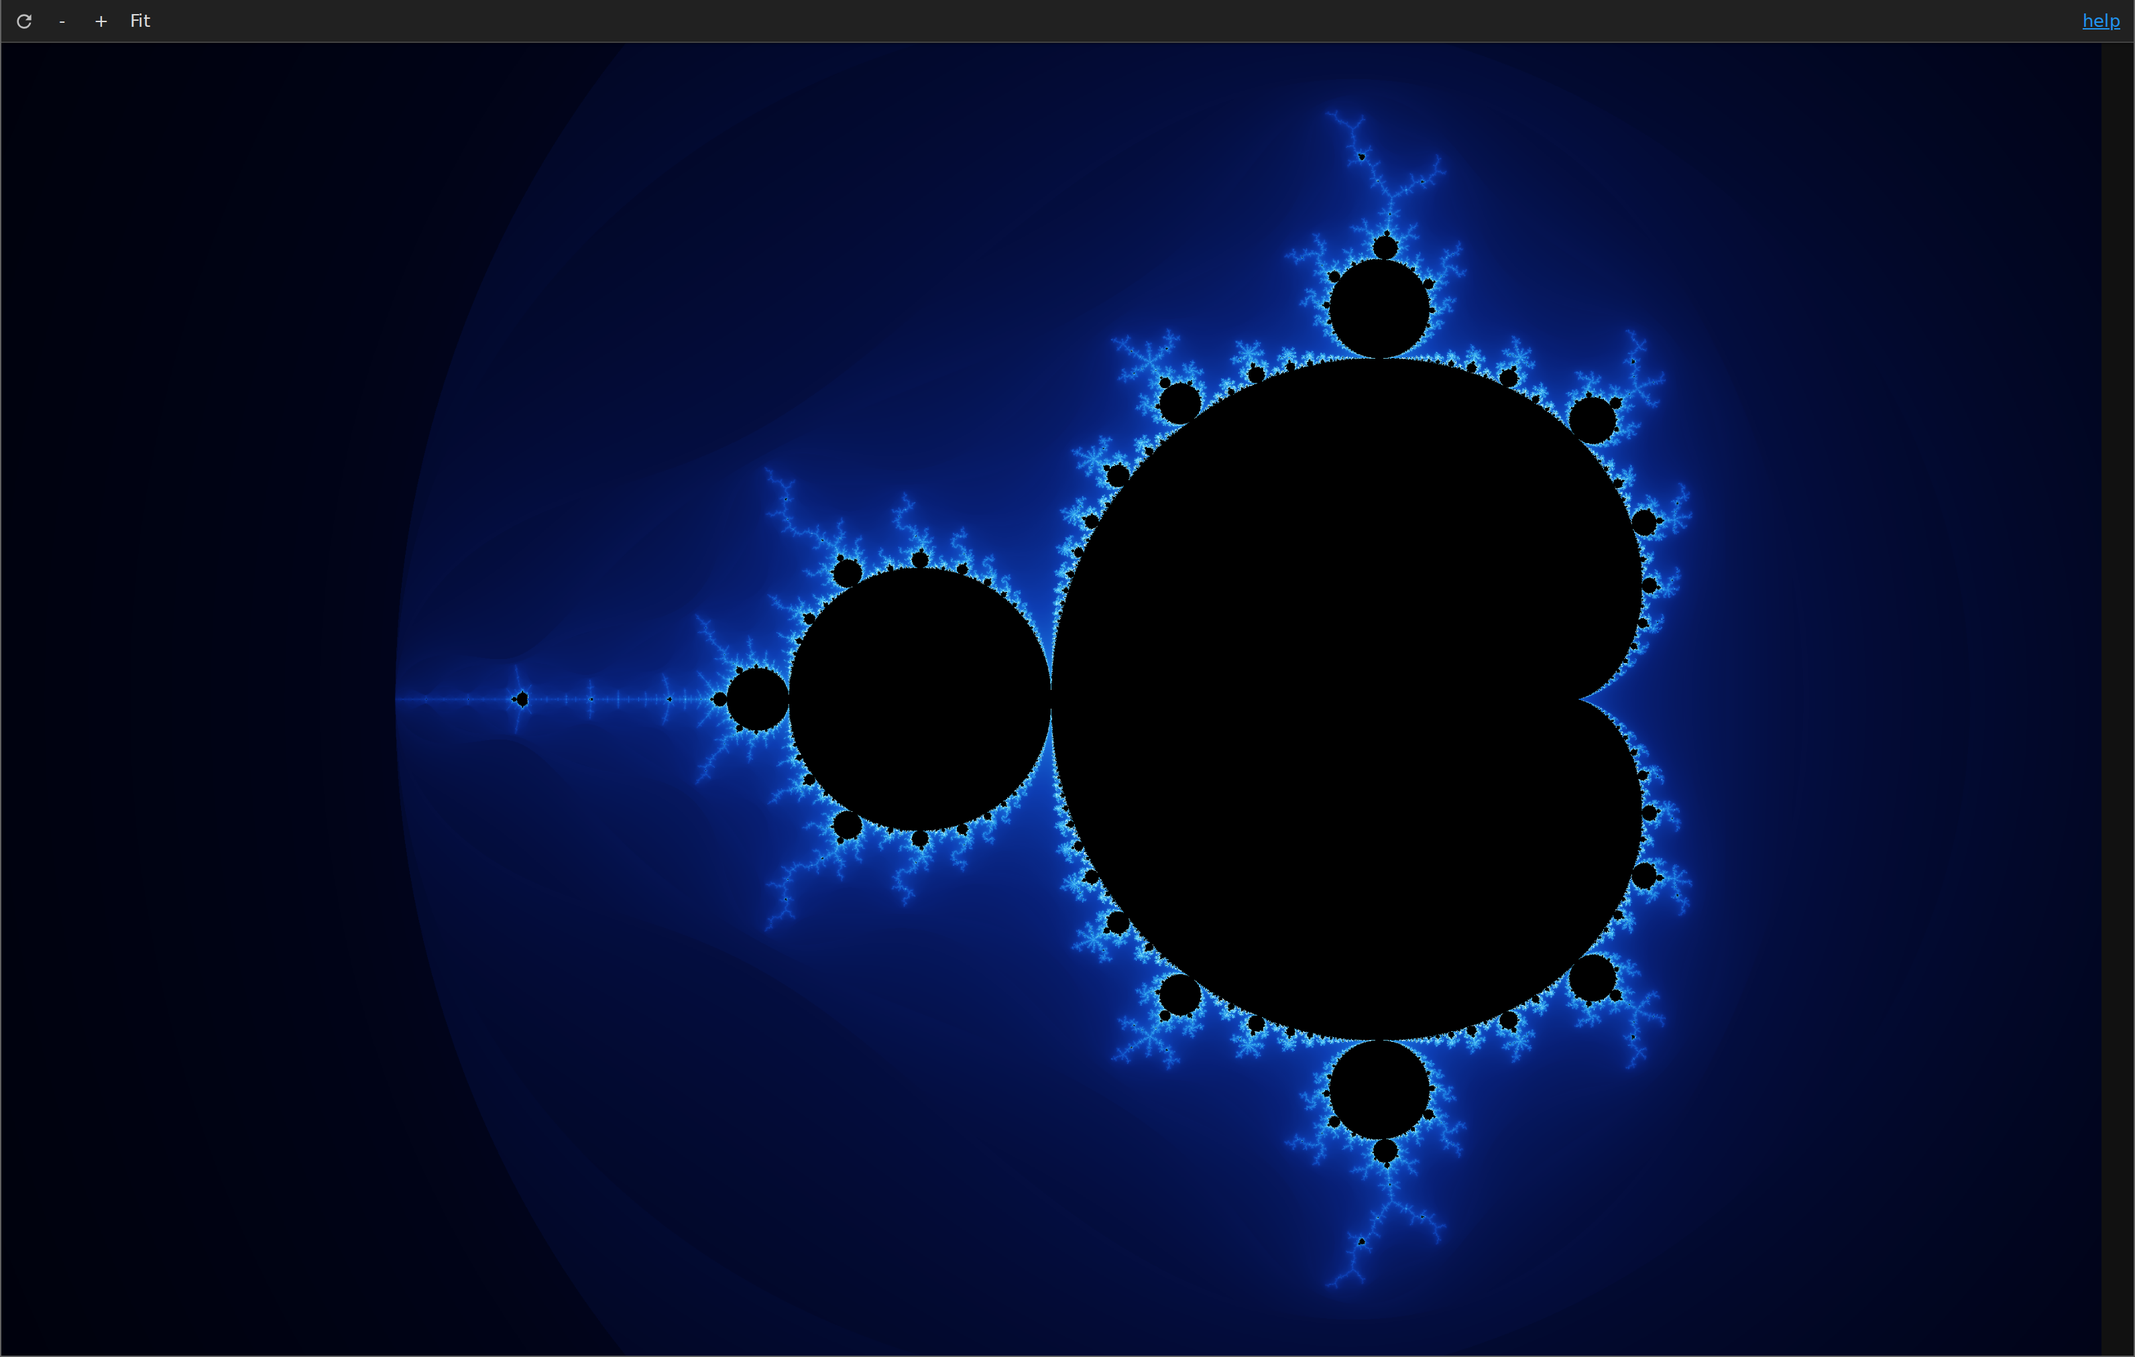
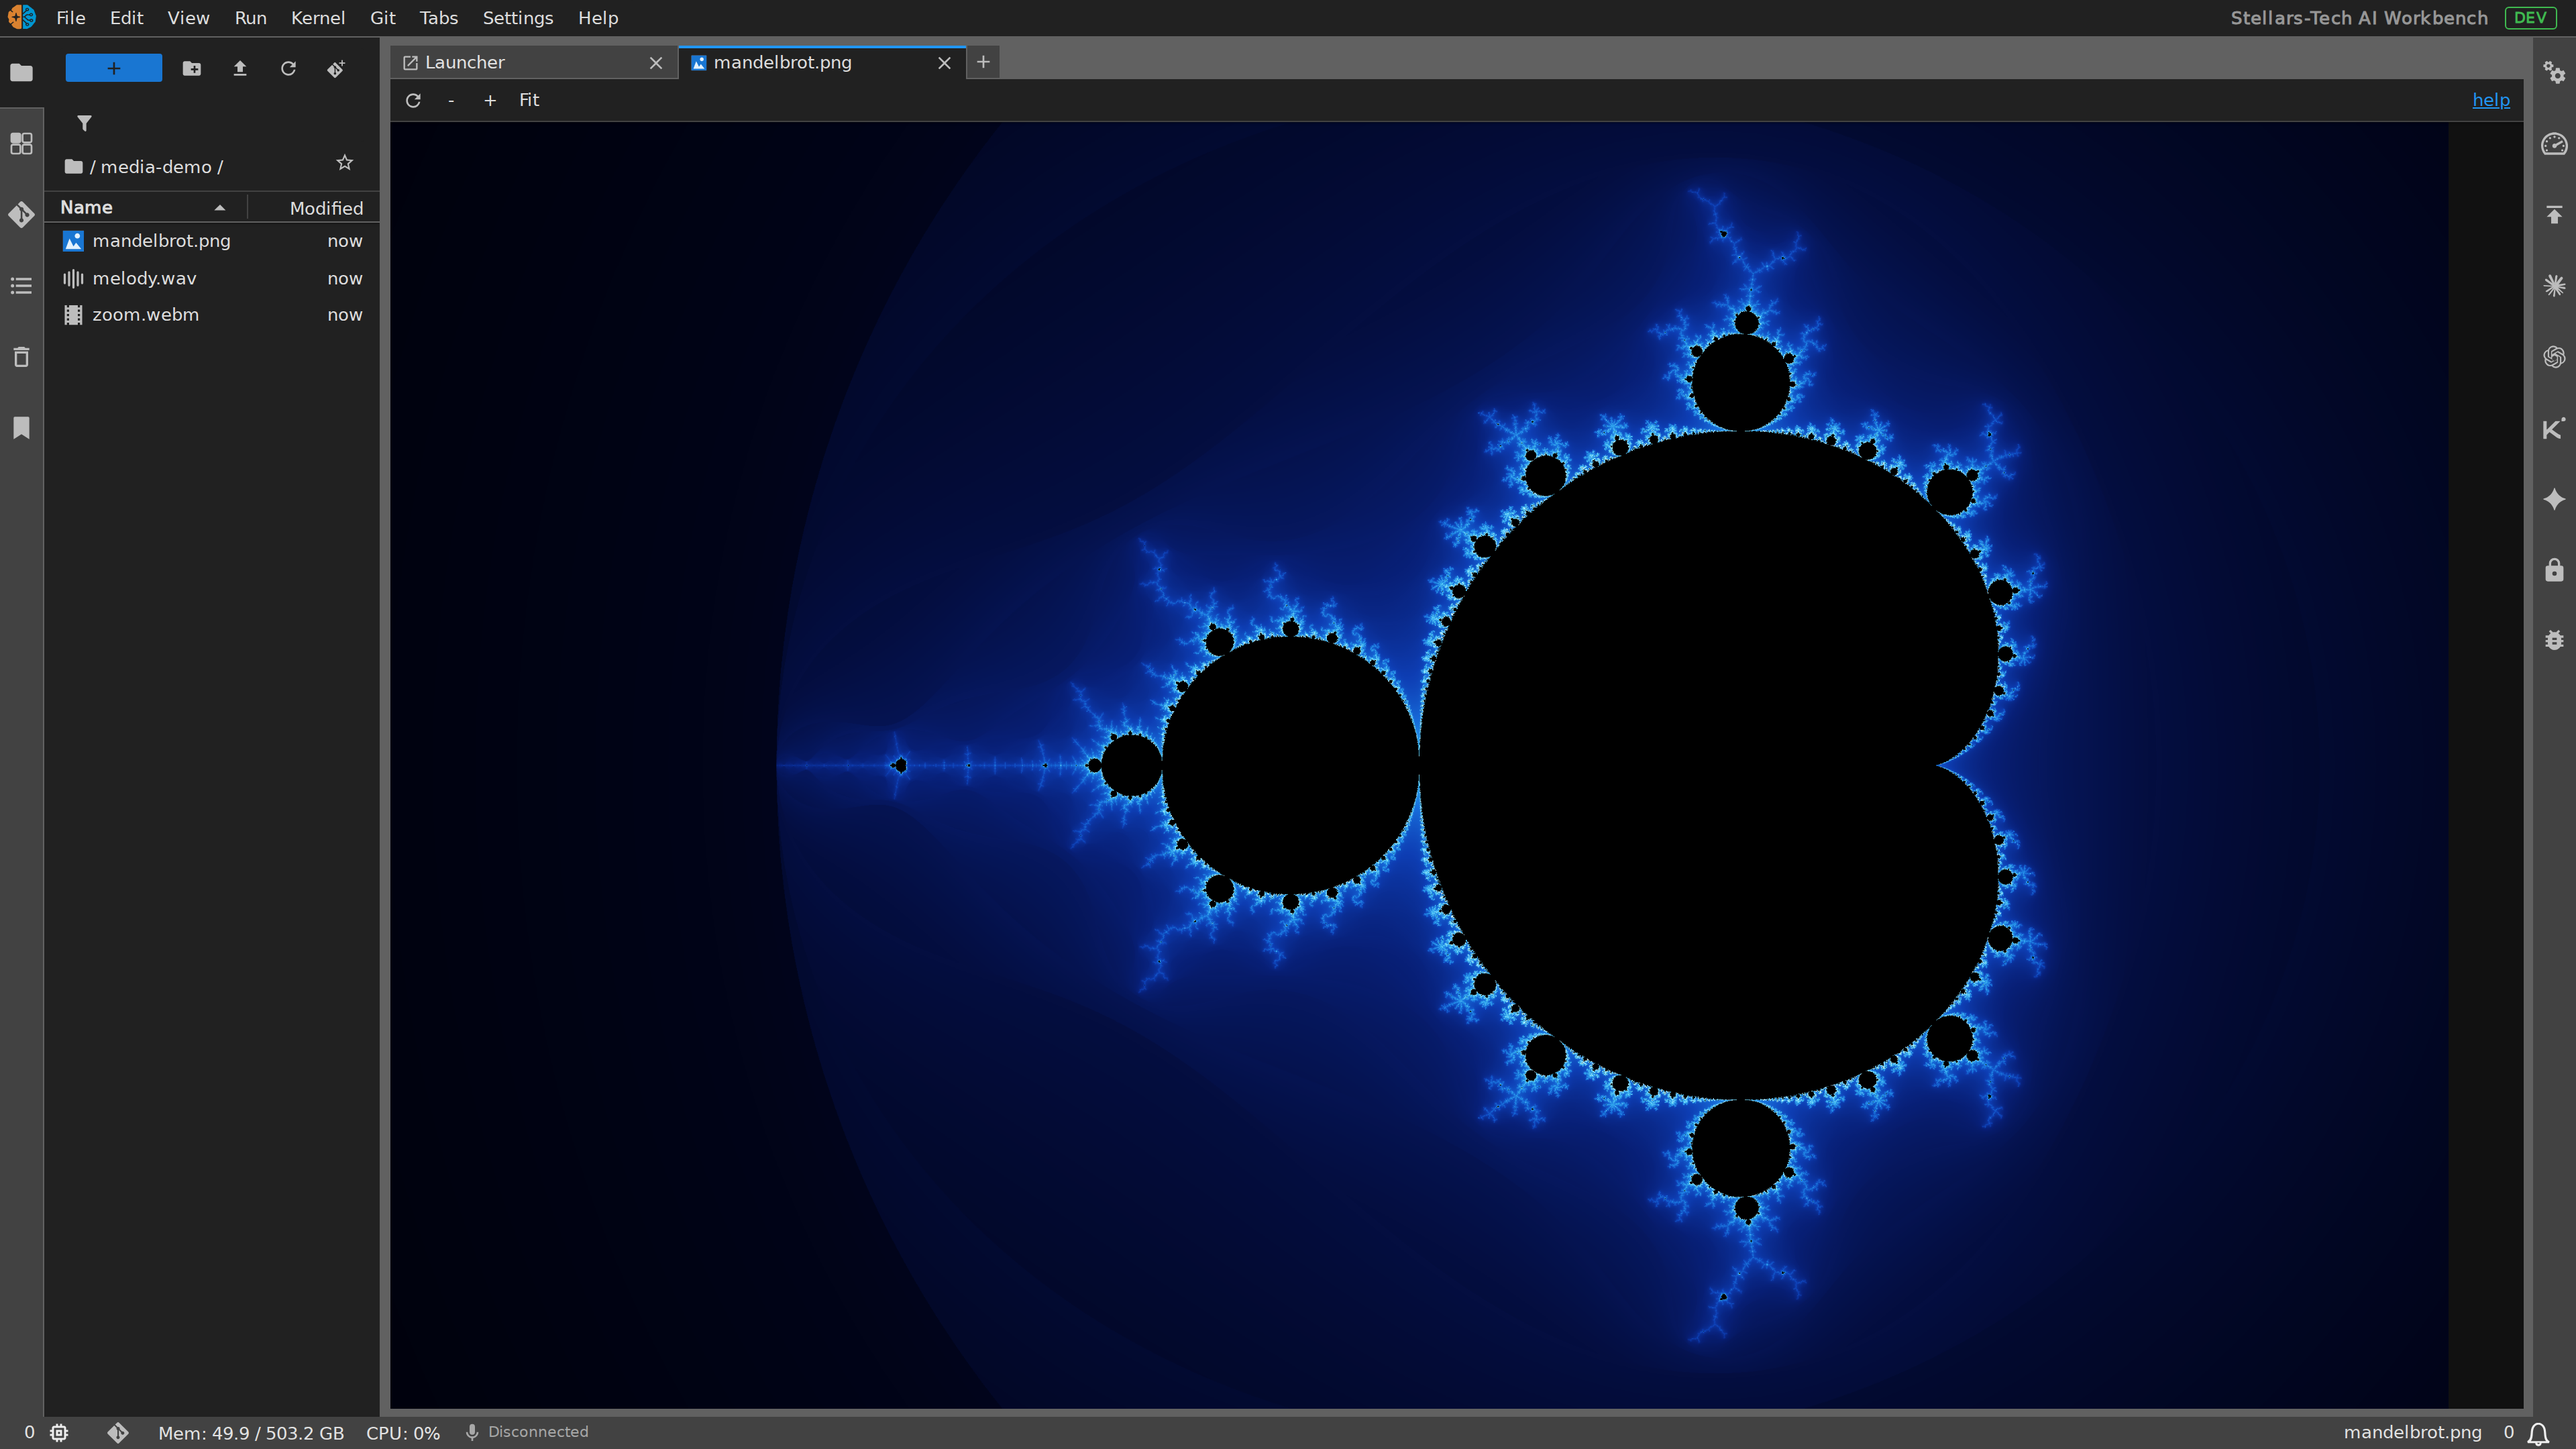
docs: add the 1.2.2 changelog and full-window README screenshots
The three README images are 3840x2160 whole-window shots in the dark theme - menu bar, file browser, tab bar, viewer and status bar - replacing the pane crops. The changelog records the README, journal and CI test changes since 1.2.1, and the journal entry 32 records the CI hardening and the screenshot work.

diff --git a/.agents/JOURNAL.md b/.agents/JOURNAL.md
@@ -96,3 +96,6 @@ This journal tracks substantive work on documents, diagrams, and documentation c
 
 31. **Task [Short] - Hi-res screenshots finished** (v1.2.1): Run `wf_9bfd60b9-fc1` captured, verified and embedded the three README images<br>
     **Result**: Image 3184x2024, audio 3184x724, video 3184x2024 at deviceScaleFactor 2, dark theme, 2.5 MB in all; audio and video referenced from the README.
+
+32. **Task - CI test hardening, journal layout and 4K README screenshots** (v1.2.2): Made the media Galata specs pass on a stock CI lab and replaced the README images with full-window 4K shots<br>
+    **Result**: ACC-KEYS-64-SCOPE typed into an uploaded notebook, which a fresh lab opens behind a Select Kernel dialog that blocked it to the 60 s timeout; it now types into a text file in the stock editor. ACC-MEDIA-73-MENU demanded a context menu on the media content, which stock JupyterLab does not register; the content check runs when a menu opens while the tab menu check stays strict. ACC-VIDEO-56-PLAYER read playbackRate before Plyr's zero-delay speed timer; it polls now. `.prettierignore` skips `.agents`, where `journal-tools layout` moved the journal. Screenshots at 3840x2160 show the whole window with `/media-demo` and no selected row. Build green on `06cef5c`; Check Release still fails in the releaser's mock sdist upload with 400 on an sdist that uploaded on `f8dc1a5`.

diff --git a/CHANGELOG.md b/CHANGELOG.md
@@ -2,6 +2,18 @@
 
 <!-- <START NEW CHANGELOG ENTRY> -->
 
+## [1.2.2] - 2026-10-28
+
+### Changed
+
+- The README images are 3840x2160 screenshots of the whole JupyterLab window - menu bar, file browser, tab bar, viewer and status bar - in the dark theme
+- The README names the audio and video viewers in the intro, documents the help dialog and the 1 s minimum loop region, and says that seeking in a file over 100 MB needs a server that serves byte ranges
+- The journal lives in `.agents/JOURNAL.md` with a `.claude/JOURNAL.md` symlink, and prettier skips it
+
+### Fixed
+
+- The integration tests pass on a stock JupyterLab: the media-key scope test types into a text file instead of a kernel-backed notebook, the context-menu test checks duplicate labels wherever a menu opens, and the video speed test waits for Plyr to apply the rate before reading it
+
 ## [1.2.1] - 2026-10-28
 
 ### Added
